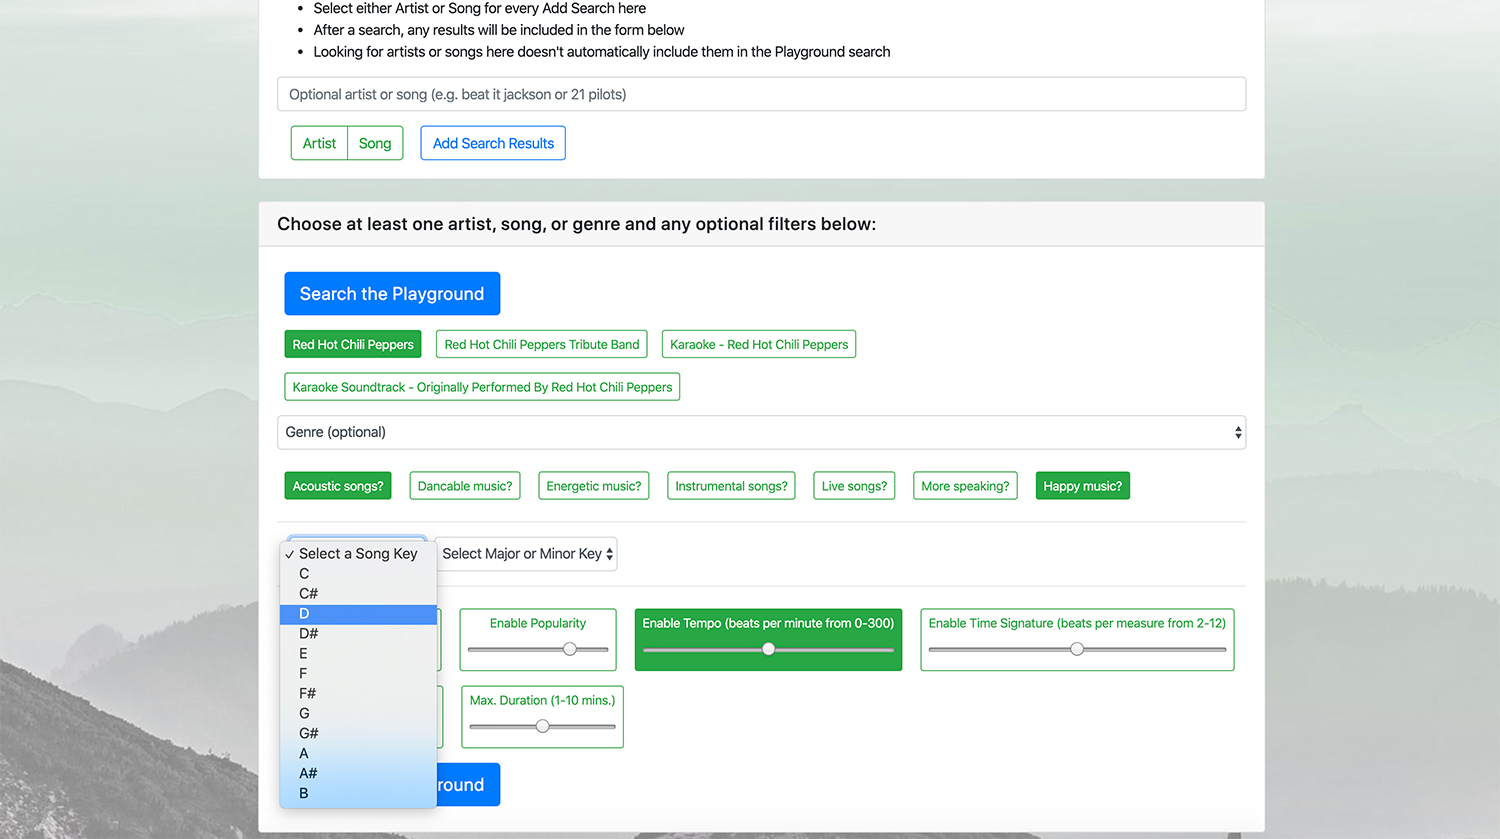
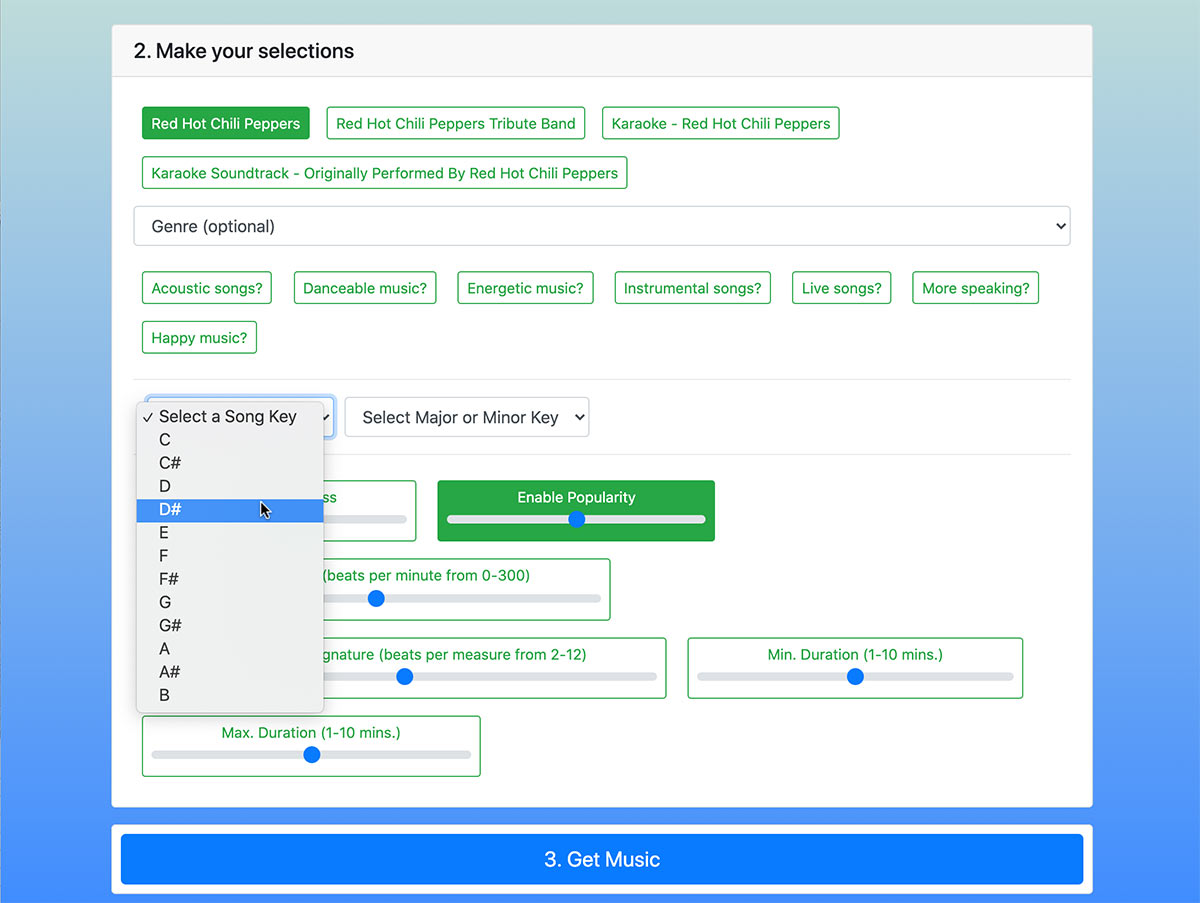
UI/UX improvements

diff --git a/web/templates/search.html b/web/templates/search.html
@@ -4,30 +4,13 @@
 
 {% block content %}
 
-<div class="card my-4 shadow">
-    <h5 class="card-header">How this works:</h5>
-    <div class="card-body">
-        <ul>
-            <li>Include at least one artist, song, or genre in every Playground search</li>
-            <li>Choose <b>up to five artists, songs, or genre</b> (in any combination) in a Playground search</li>
-            <li>Everything else is optional</li>
-        </ul>
-    </div>
-</div>
-
 {% if message %}
     <div id="radio_alert" class="alert alert-danger mt-4" role="alert">{{ message }}</div>
 {% endif %}
 
-<div class="card mb-4">
-    <h5 class="card-header">Search for artists or songs here (OPTIONAL)</h5>
+<div class="card mb-4 mt-4">
+    <h5 class="card-header">1. Search for artists or songs to add</h5>
     <div class="card-body">
-        <ul>
-            <li>This is <b>OPTIONAL</b></li>
-            <li>Select either Artist or Song for every Add Search here</li>
-            <li>After a search, any results will be included in the form below</li>
-            <li>Looking for artists or songs here doesn't automatically include them in the Playground search</li>
-        </ul>
 
     <form id="artist_search">
         <input type="hidden" name="csrf_token" value="{{ csrf_token() }}"/>
@@ -44,17 +27,15 @@
                     Song
                 </label>
             </div>
-            <button id="artist_search_button" class="btn btn-outline-primary ml-3">Add Search Results</button>
+            <button id="artist_search_button" class="btn btn-outline-primary ml-3">Add Search Results To Next Pane</button>
         </div>
     </form>
     </div>
 </div>
 
 <div class="card mb-3">
-    <h5 class="card-header">Choose at least one artist, song, or genre and any optional filters below:</h5>
+    <h5 class="card-header">2. Make your selections</h5>
     <form method="POST" action="seed" id="search_form" class="card-body">
-        
-        <button class="btn btn-primary btn-lg m-2" type="submit">Search the Playground</button>
 
         <div id="artist_search_results" class="btn-group-toggle" data-toggle="buttons">
             <!-- Artist or song results append here -->
@@ -78,7 +59,7 @@
 
             <label class="btn btn-outline-success btn-sm m-2">
                 <input type="checkbox" name="danceability" value="1" class="form-check-input">
-                Danceble music?
+                Danceable music?
             </label>
 
             <label class="btn btn-outline-success btn-sm m-2">
@@ -130,39 +111,43 @@
         <hr>
 
         <div class="btn-group-toggle" data-toggle="buttons">
+
             <label class="btn btn-outline-success btn-sm m-2">Enable Loudness
             <input type="checkbox" name="include_loudness" value="1" class="form-check-input">
-            <input type="range" id="loudness" name="loudness" min="-60" max="0" class="form-control">
+            <input type="range" id="loudness" name="loudness" min="-60" max="0" class="custom-range">
             </label>
     
             <label class="btn btn-outline-success btn-sm m-2">Enable Popularity
             <input type="checkbox" name="include_popularity" value="1" class="form-check-input">
-            <input type="range" id="popularity" name="popularity" min="0" max="100" class="form-control">
+            <input type="range" id="popularity" name="popularity" min="0" max="100" class="custom-range">
             </label>
         
             <label class="btn btn-outline-success btn-sm m-2">Enable Tempo (beats per minute from 0-300)
             <input type="checkbox" name="include_tempo" value="1" class="form-check-input">
-            <input type="range" id="tempo" name="tempo" min="0" max="300" class="form-control">
+            <input type="range" id="tempo" name="tempo" min="0" max="300" class="custom-range">
             </label>
 
             <label class="btn btn-outline-success btn-sm m-2">Enable Time Signature (beats per measure from 2-12)
             <input type="checkbox" name="include_time_sig" value="1" class="form-check-input">
-            <input type="range" id="time_sig" name="time_sig" min="2" max="12" class="form-control">
+            <input type="range" id="time_sig" name="time_sig" min="2" max="12" class="custom-range">
             </label>
 
             <label class="btn btn-outline-success btn-sm m-2">Min. Duration (1-10 mins.)
             <input type="checkbox" name="include_min_duration" value="1" class="form-check-input">
-            <input type="range" id="min_duration" name="min_duration" min="60000" max="600000" class="form-control">
+            <input type="range" id="min_duration" name="min_duration" min="60000" max="600000" class="custom-range">
             </label>
 
             <label class="btn btn-outline-success btn-sm m-2">Max. Duration (1-10 mins.)
             <input type="checkbox" name="include_max_duration" value="1" class="form-check-input">
-            <input type="range" id="max_duration" name="max_duration" min="60000" max="600000" class="form-control">
+            <input type="range" id="max_duration" name="max_duration" min="60000" max="600000" class="custom-range">
             </label>
 
         </div>
-        <button class="btn btn-primary btn-lg m-2" type="submit">Search the Playground</button>
-    </form>
-</div>
+        
+        
+    
+</div><div class="card mb-3">
+            <button class="btn btn-primary btn-lg m-2" type="submit">3. Get Music</button>  
+        </div></form>
 
 {% endblock %}

diff --git a/web/templates/index.html b/web/templates/index.html
@@ -4,31 +4,23 @@
 
 {% block content %}
 
-    <h3 class="my-4">How do you want to use the Spotify Playground?</h3>
+    <div class="card mt-5 shadow">
+        <h5 class="card-header">Discover new music in really cool ways!</h5>
+        <div class="card-body">
+        <p>Spotify has analyzed more than 30,000,000 songs but they don't give their users direct access to this analysis... that's where we come in! You can "seed" music recommendations by your favorite few artists, songs, genre, or a few really precise factors like tempo or even time signature!</p>
+        <ol>
+            <li>You can try our app <b>anonymously</b>, or,</li>
+            <li>You can have your results be added as a playlist in <b>your Spotify account</b> (these playlists are easily deleted if you don't like it).</li>
+        </ol>
+        </div>
+    </div>
     
     <div class="card my-4 shadow">
-        <h5 class="card-header">Anonymously</h5>
+        <h5 class="card-header">How do you want to use the app?</h5>
         <div class="card-body">
-        <ul>
-            <li>You'll be able to play with our search</li>
-            <li>Nothing you discover will be saved</li>
-        </ul>
-        <a class="btn btn-primary" href="/auth">Start Search</a>
+        <a class="btn btn-primary" href="/auth">Try Anonymously</a>
+        <a href="https://accounts.spotify.com/authorize?client_id=8aee06a9d32647a698e052031bd05312&response_type=code&redirect_uri=https%3A%2F%2Fthe-spotify-playground.herokuapp.com%2Fuser_auth&scope=playlist-modify-public%20playlist-modify-private" class="btn btn-success">Link to Your Spotify</a>
         </div>
     </div>
-
-    <div class="card mt-5 shadow">
-        <h5 class="card-header">Linked to your Spotify</h5>
-        <div class="card-body">
-        <ul>
-            <li>You'll be able to play with our search</li>
-            <li>The music you find <i><b>will be added as a playlist on your Spotify account</i></b> unless you don't want to keep that playlist</li>
-        </ul>
-        <a href="https://accounts.spotify.com/authorize?client_id=8aee06a9d32647a698e052031bd05312&response_type=code&redirect_uri=https%3A%2F%2Fthe-spotify-playground.herokuapp.com%2Fuser_auth&scope=playlist-modify-public%20playlist-modify-private" class="btn btn-success">Link and Search</a>
-        </div>
-    </div>
-
-
-
 
 {% endblock %}

diff --git a/web/templates/base.html b/web/templates/base.html
@@ -34,9 +34,11 @@
             {% endif %}
           </div> 
 
-          <div>
-            <a class="btn btn-sm btn-outline-secondary" href="/logout" class="nav-link">Unlink from Spotify</a>
-          </div>
+          {% if session.get('user_id') %}
+            <div>
+              <a class="btn btn-sm btn-outline-secondary" href="/logout" class="nav-link">Unlink from Spotify</a>
+            </div>
+          {% endif %}
 
         </div>
       </nav>

diff --git a/web/static/css/app.css b/web/static/css/app.css
@@ -1,5 +1,6 @@
 body {
-    background: url(/static/images/background.jpg) no-repeat center center fixed;
+    /* background: url(/static/images/background.jpg) no-repeat center center fixed; */
+    background: linear-gradient(rgb(211, 233, 211), rgb(63, 140, 255)) no-repeat center center fixed;
     -webkit-background-size: cover;
     -moz-background-size: cover;
     background-size: cover;
